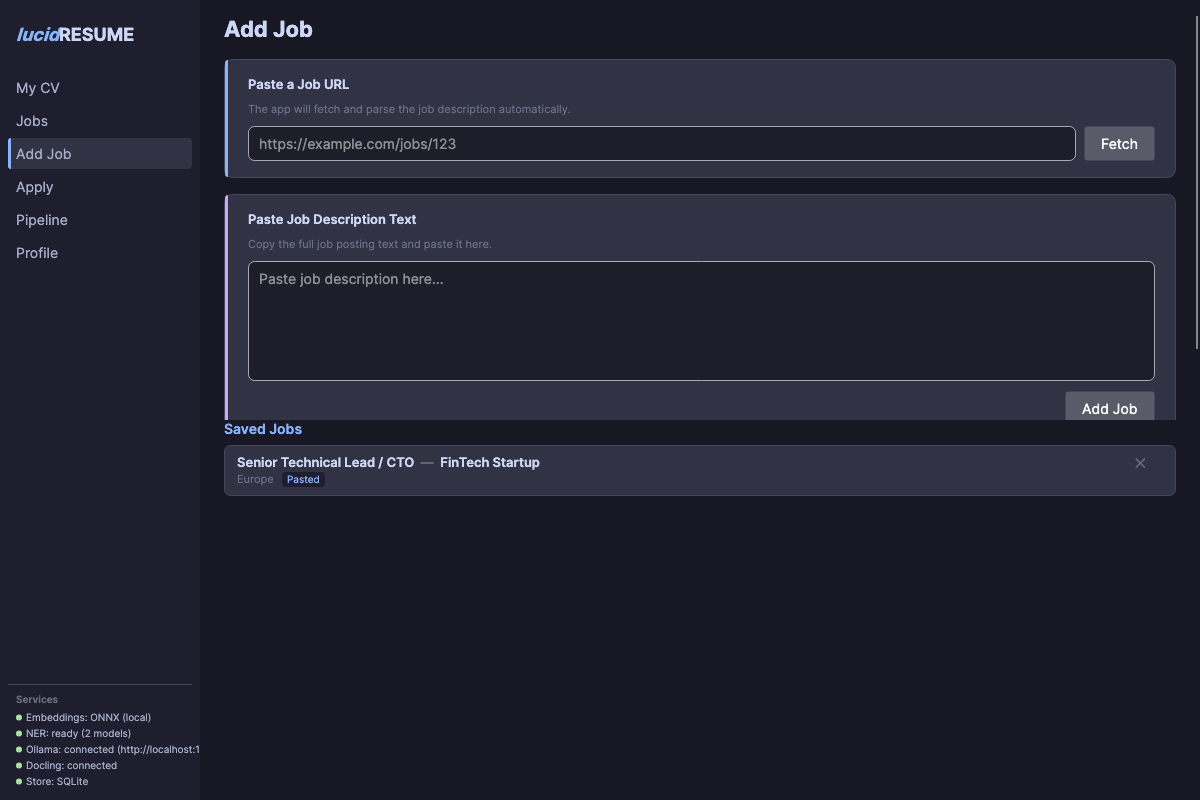
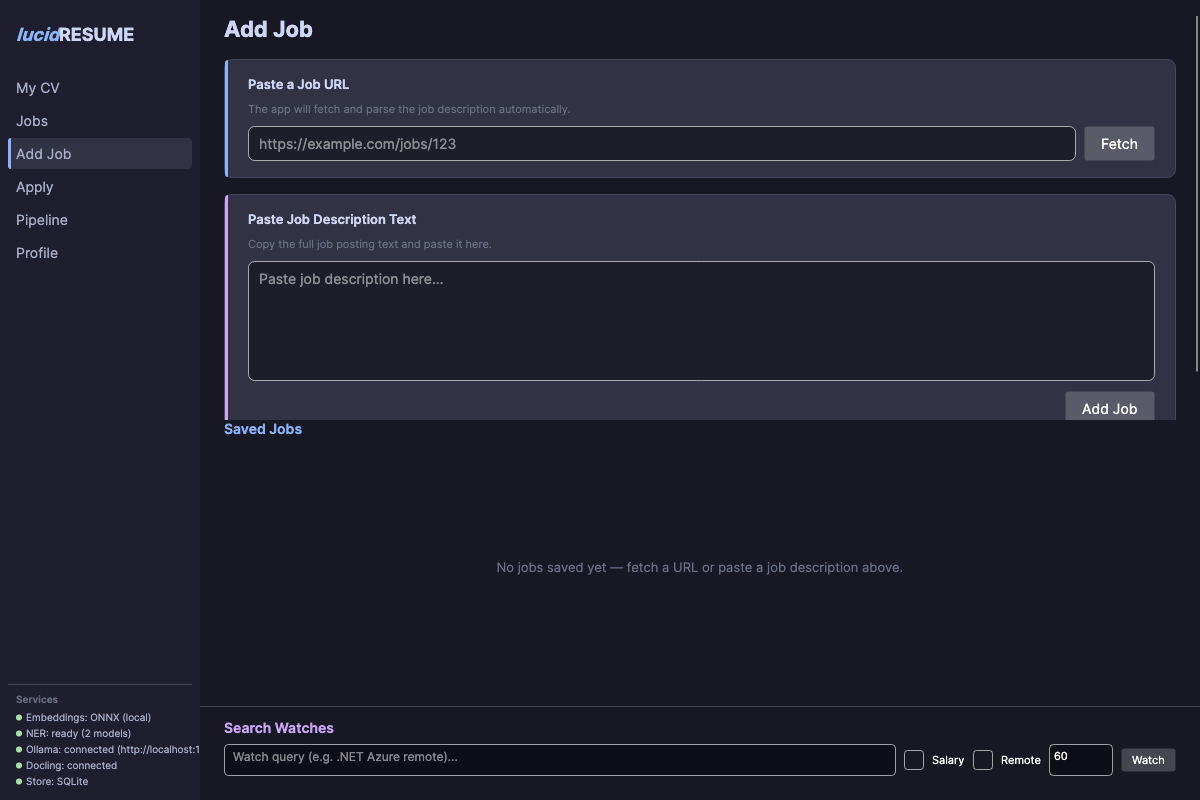
feat: SearchWatch management UI on Add Job page
Add Job page now has "Search Watches" section:
- Create watches with query, salary/remote filters, poll interval
- List active watches with last polled time and match count
- Delete watches
- Purple accent styling matching Pipeline page
- Watches persisted to SQLite, polled by background timer

Full watch lifecycle:
1. User creates watch on Add Job page (query + filters + interval)
2. MainWindowViewModel polls due watches every 5 minutes
3. SearchWatchPoller fetches from job APIs, applies hard filters
4. New matches saved to store, notification badge updated
5. User sees badge count in sidebar, clicks Jobs to view matches

Screenshot updated. 159 tests passing.

diff --git a/src/lucidRESUME/ViewModels/Pages/SearchPageViewModel.cs b/src/lucidRESUME/ViewModels/Pages/SearchPageViewModel.cs
@@ -1,6 +1,8 @@
+using System.Collections.ObjectModel;
 using CommunityToolkit.Mvvm.ComponentModel;
 using CommunityToolkit.Mvvm.Input;
 using lucidRESUME.Core.Interfaces;
+using lucidRESUME.Core.Models.Filters;
 using lucidRESUME.Core.Models.Jobs;
 using lucidRESUME.Core.Persistence;
 
@@ -27,11 +29,19 @@ public sealed partial class SearchPageViewModel : ViewModelBase
     [ObservableProperty] private string _manualUrl = "";
     [ObservableProperty] private IReadOnlyList<SavedJobItem> _savedJobs = [];
 
+    // Search watches
+    [ObservableProperty] private ObservableCollection<WatchItem> _watches = [];
+    [ObservableProperty] private string _newWatchQuery = "";
+    [ObservableProperty] private bool _newWatchRequireSalary;
+    [ObservableProperty] private bool _newWatchRequireRemote;
+    [ObservableProperty] private int _newWatchPollMinutes = 60;
+
     public SearchPageViewModel(IJobSpecParser parser, IAppStore store)
     {
         _parser = parser;
         _store = store;
         _ = LoadSavedJobsAsync();
+        _ = LoadWatchesAsync();
     }
 
     [RelayCommand]
@@ -161,4 +171,72 @@ public sealed partial class SearchPageViewModel : ViewModelBase
             return uri.Host.Replace("www.", "");
         return "URL";
     }
+
+    // ── Search Watches ──────────────────────────────────────────────────
+
+    [RelayCommand]
+    private async Task CreateWatchAsync()
+    {
+        if (string.IsNullOrWhiteSpace(NewWatchQuery)) return;
+
+        var watch = new SearchWatch
+        {
+            Name = NewWatchQuery.Length > 30 ? NewWatchQuery[..27] + "..." : NewWatchQuery,
+            Query = NewWatchQuery,
+            PollIntervalMinutes = NewWatchPollMinutes,
+            Filters = new SearchHardFilter
+            {
+                RequireSalary = NewWatchRequireSalary,
+                RequireRemote = NewWatchRequireRemote,
+            }
+        };
+
+        await _store.MutateAsync(state => state.SearchWatches.Add(watch));
+        NewWatchQuery = "";
+        StatusMessage = $"Watch created: polling every {NewWatchPollMinutes}min";
+        await LoadWatchesAsync();
+    }
+
+    [RelayCommand]
+    private async Task DeleteWatchAsync(WatchItem item)
+    {
+        await _store.MutateAsync(state =>
+            state.SearchWatches.RemoveAll(w => w.WatchId == item.WatchId));
+        await LoadWatchesAsync();
+        StatusMessage = "Watch removed.";
+    }
+
+    [RelayCommand]
+    private async Task ToggleWatchAsync(WatchItem item)
+    {
+        await _store.MutateAsync(state =>
+        {
+            var w = state.SearchWatches.FirstOrDefault(sw => sw.WatchId == item.WatchId);
+            if (w is not null) w.IsActive = !w.IsActive;
+        });
+        await LoadWatchesAsync();
+    }
+
+    private async Task LoadWatchesAsync()
+    {
+        var state = await _store.LoadAsync();
+        Watches = new ObservableCollection<WatchItem>(
+            state.SearchWatches.Select(w => new WatchItem(
+                w.WatchId,
+                w.Name,
+                w.Query,
+                w.IsActive,
+                w.PollIntervalMinutes,
+                w.LastPolledAt?.ToString("g") ?? "never",
+                w.LastNewMatches)));
+    }
 }
+
+public sealed record WatchItem(
+    Guid WatchId,
+    string Name,
+    string Query,
+    bool IsActive,
+    int PollMinutes,
+    string LastPolled,
+    int LastMatches);
